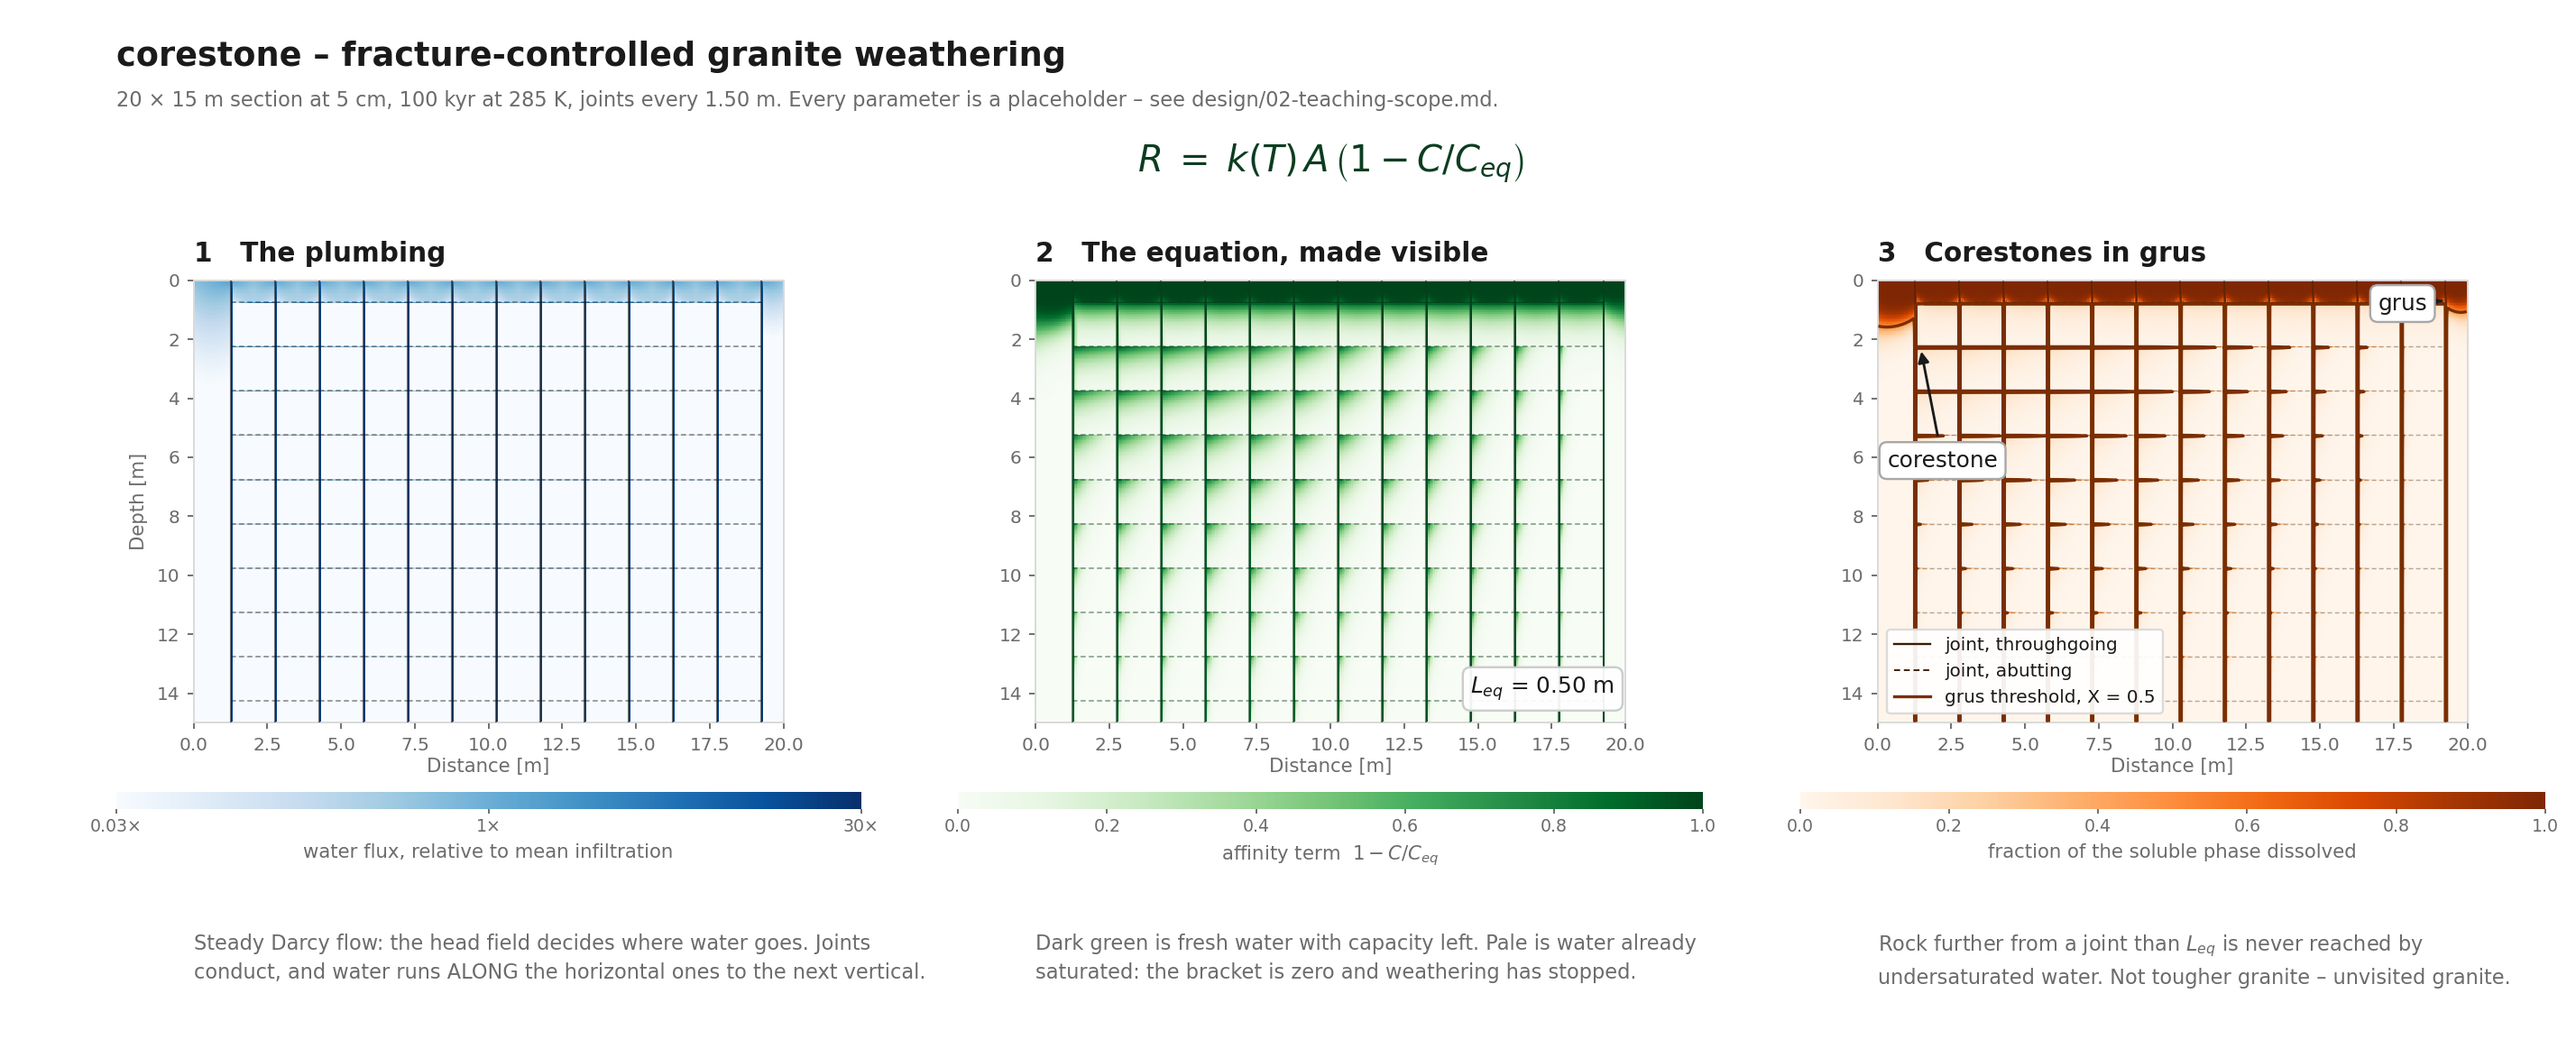
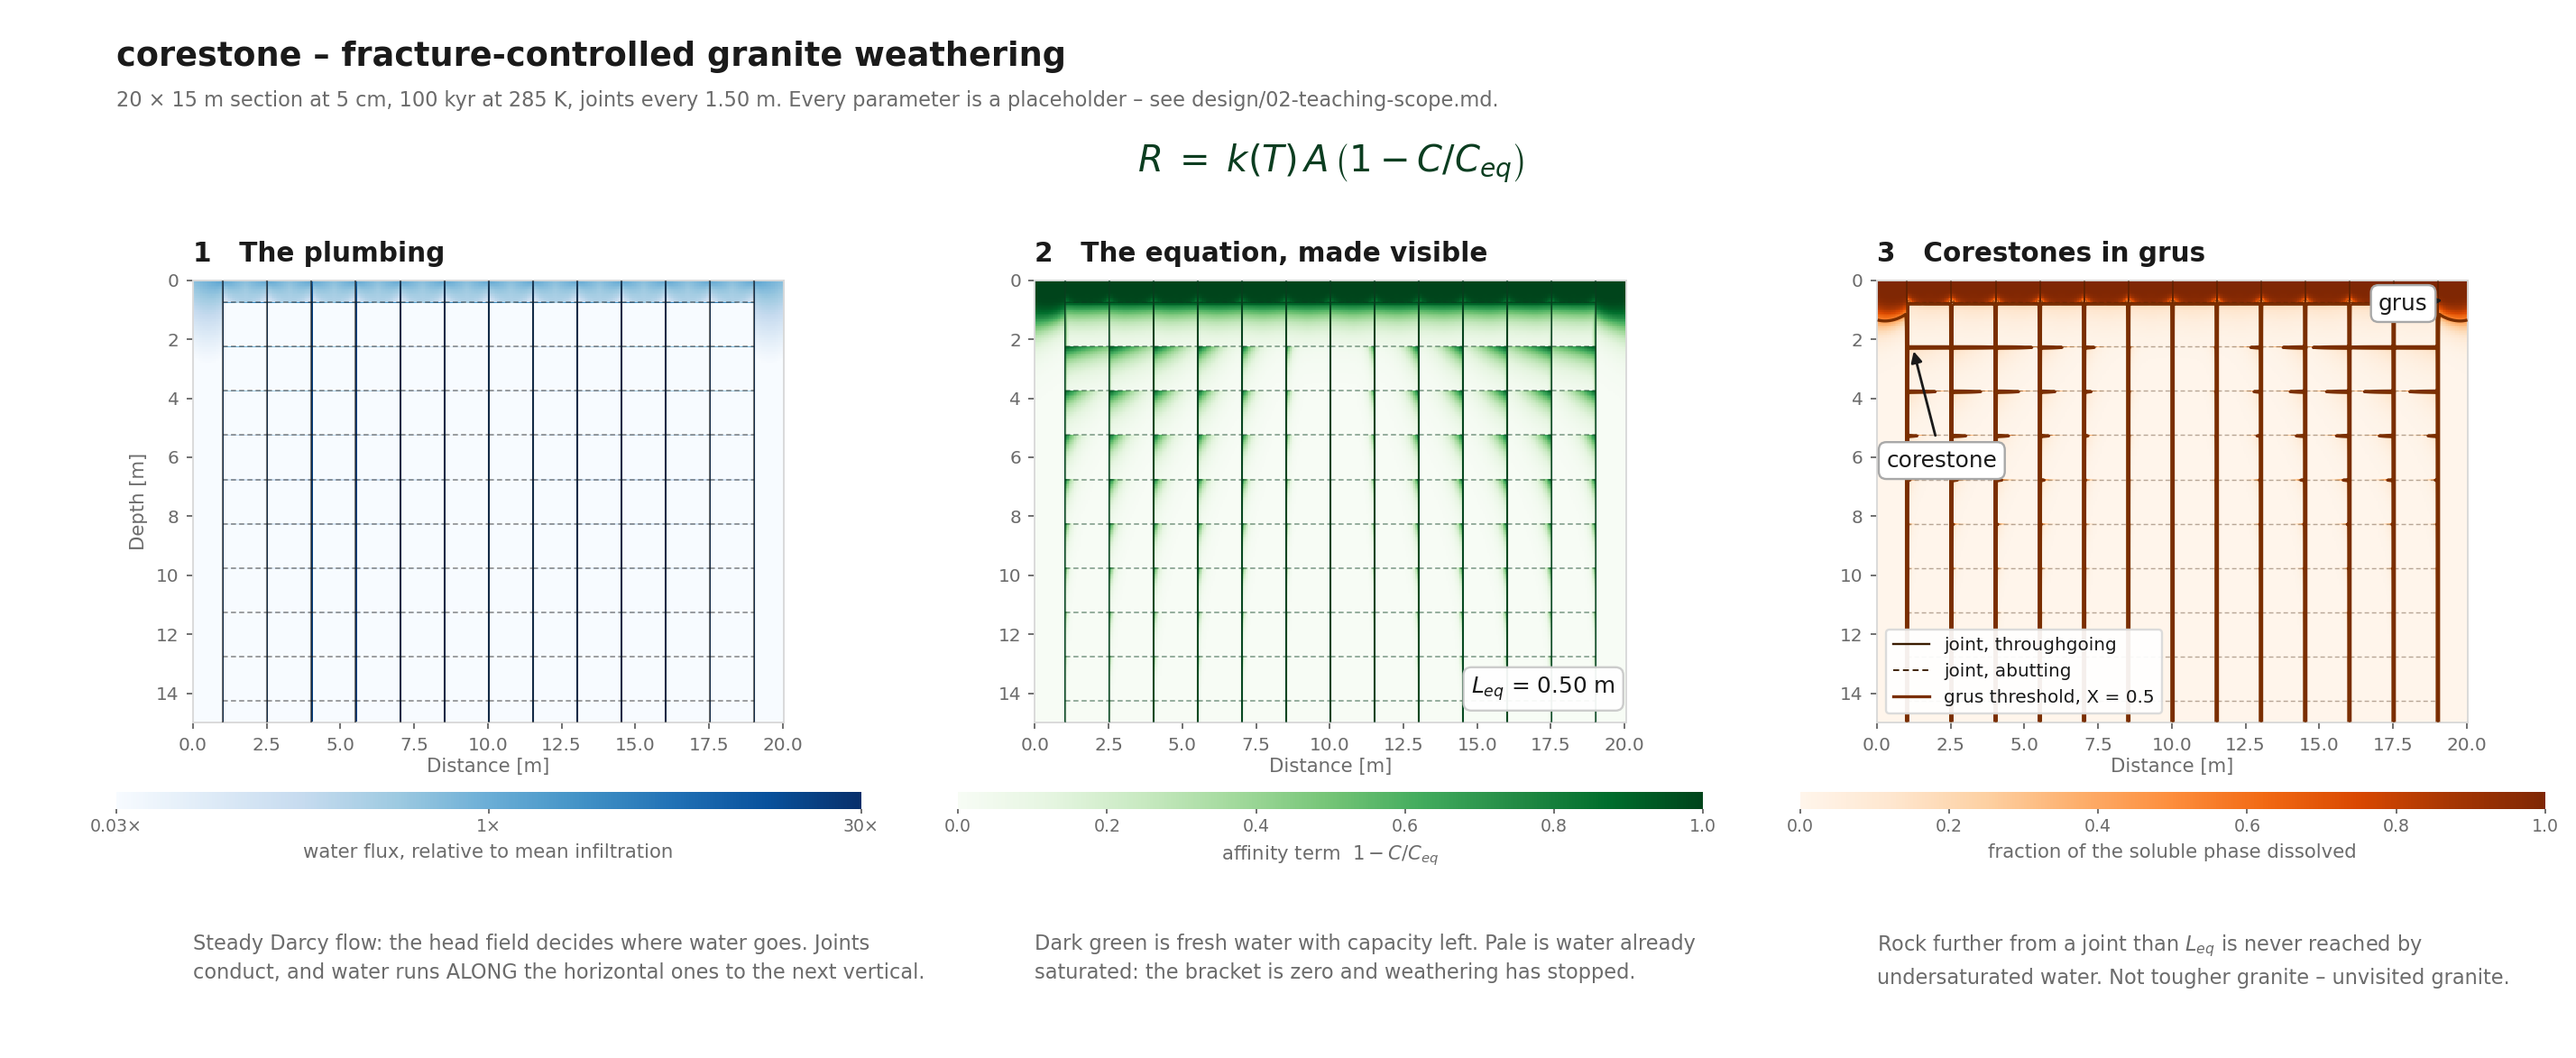
Correct the temperature demonstration: transport limits it, not chemistry
A test failed when the flow was corrected, and it was right to. Design 02 built
the teaching demonstration on hotter water leaving MORE corestone -- a clean
15-point rise under the gravity cascade. Under Darcy flow a 28-fold shortening
of the equilibration length moves the total weathering by under a tenth, and
the last factor of four moves it by 0.3 %. The corestone fraction is not even
monotonic, and at coarse resolution the trend reverses.

The reason is that a real flow equation already concentrates the water at the
joints, so shortening L_eq has little left to do: what dissolves is set by how
much water arrives and how much solute it can carry. That is the
transport-limited limit, where chemistry stops mattering -- a sharper lesson
than the one it replaces, but not the one design 02 was written around. The
earlier dramatic result was partly an artifact of the flow model.

The test now pins the correct claim, threshold-free, and design 02's
superseded sweep is marked as such rather than left to mislead.

diff --git a/tests/test_weathering.py b/tests/test_weathering.py
@@ -86,18 +86,32 @@ def test_raising_the_temperature_shortens_the_equilibration_length():
     assert m.equilibration_length > 0.0
 
 
-def test_hotter_leaves_more_corestone_not_less():
+def test_temperature_barely_matters_because_transport_limits_it():
     """
-    Ten times the rate constant, and MORE rock survives -- the weathering
-    concentrates at the joints instead of spreading. Warm is not weathered.
+    Shortening the equilibration length 28-fold changes the total weathering by
+    under a tenth. Once L_eq is far shorter than the joint spacing, the water
+    saturates within a cell of the joint whatever the rate constant, so the
+    rock dissolved is set by how much water arrives and how much it can carry
+    -- not by how fast the rock dissolves. That is the transport-limited
+    (high-Damkohler) regime.
+
+    This replaces an earlier test asserting that hotter leaves MORE corestone.
+    That held under the gravity cascade, where a shorter L_eq visibly
+    concentrated the weathering at the joints. Under Darcy flow the water is
+    already concentrated at the joints, so the effect is small and not
+    monotonic -- it reverses between 275 and 285 K. The earlier result was
+    partly an artifact of the flow model, and the test failed honestly when the
+    flow was corrected.
     """
     cold, hot = _model(), _model()
     cold.set_temperature(275.0)
-    hot.set_temperature(305.0)
+    hot.set_temperature(315.0)
     cold.run(years=100e3)
     hot.run(years=100e3)
-    assert hot.equilibration_length < cold.equilibration_length
-    assert hot.is_corestone.mean() > cold.is_corestone.mean()
+
+    assert cold.equilibration_length / hot.equilibration_length > 20.0
+    change = abs(hot.dissolved_fraction.mean() - cold.dissolved_fraction.mean())
+    assert change / cold.dissolved_fraction.mean() < 0.15
 
 
 def test_grus_forms_at_the_joints_and_corestones_away_from_them():

diff --git a/design/04-darcy-flow.md b/design/04-darcy-flow.md
@@ -90,6 +90,40 @@ perfect verticality being at fault. It was not: it was the flow model. Testing
 one deficiency while another is still present gives a confident and wrong
 answer.
 
+## It also corrected the temperature demonstration
+
+Design 02 built the teaching demonstration on this: raise the temperature and
+*more* rock survives as corestone, because hotter water saturates sooner and
+concentrates the weathering at the joints. Under the cascade that was a clean
+15-point rise, 52.1 to 67.5 %, across 275-305 K.
+
+Under Darcy flow it nearly vanishes:
+
+```
+ T [K]  L_eq [m]     mean X   grus %  corestone %
+   275     1.256    0.09510     8.70        84.42
+   285     0.500    0.10220     9.08        82.47
+   295     0.212    0.10387     9.26        84.09
+   305     0.095    0.10424     9.70        86.06
+   315     0.045    0.10427    10.21        87.49
+```
+
+A **28-fold** shortening of `L_eq` moves the total weathering by under a tenth,
+and the last factor of four moves it by 0.3 %. The corestone fraction is not
+even monotonic -- it dips between 275 and 285 K, and at coarse resolution the
+275-to-305 trend reverses outright, which is how the test caught this.
+
+The reason is that under a real flow equation the water is *already*
+concentrated at the joints, so making `L_eq` smaller has little left to do. The
+system is transport-limited: what dissolves is set by how much water arrives
+and how much solute it can carry, not by how fast the rock dissolves.
+
+That is a **sharper** lesson than the one it replaces, and a truer one -- the
+high-Damkohler limit, where chemistry stops mattering entirely. But it is not
+the lesson design 02 was written around, and the earlier dramatic version was
+partly an artifact of the cascade. The slider that now does something is
+rainfall, not temperature.
+
 ## Cost
 
 ```

diff --git a/design/02-teaching-scope.md b/design/02-teaching-scope.md
@@ -70,7 +70,13 @@ grus cells. Nothing but `(1 - c)` and the plumbing produced that.
 to 10^6 years; the front advances at roughly 15 m/Myr, which is the observed
 order for granite. A demo that runs 20 kyr shows a skin and teaches nothing.
 
-### The demonstration
+### The demonstration (SUPERSEDED -- see design 04)
+
+**The numbers below were produced by the gravity cascade and do not survive
+the switch to Darcy flow.** Under a real flow equation a 28-fold change in
+L_eq moves the total weathering by under a tenth, because the system is
+transport-limited. Design 04 has the corrected sweep.
+
 
 ```
  T [K]  L_eq [m]   grus %  corestone %
